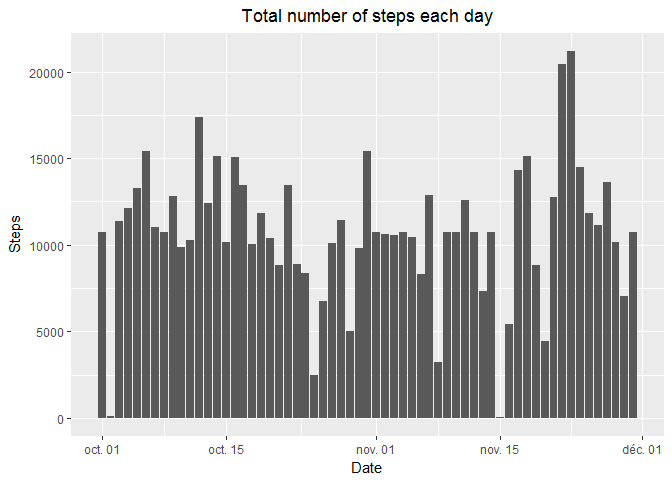
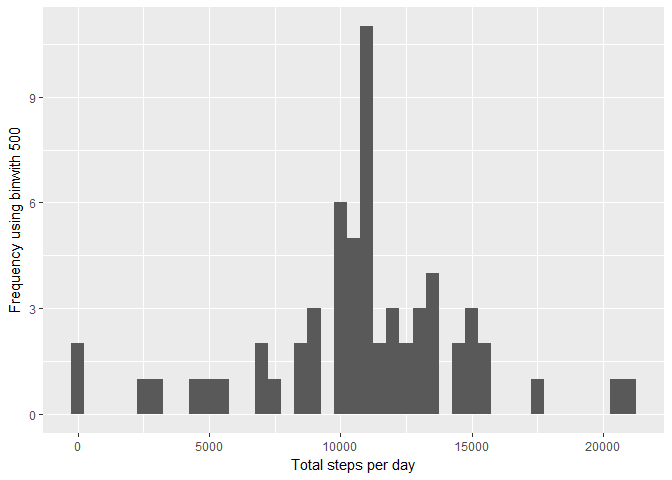
try and error

diff --git a/PA1_template.html b/PA1_template.html
@@ -182,9 +182,8 @@ missingValue&lt;-sum(is.na(data_after_impute$steps))</code></pre>
 <h3>7. Histogram of the total number of steps taken each day after missing values are imputed</h3>
 <pre class="r"><code>hist_data&lt;- data_after_impute
 n_steps_day2&lt;-aggregate(hist_data[,1],by=list(hist_data$date), FUN=sum)
-g&lt;-ggplot(n_steps_day2, aes(x=as.Date(Group.1), y=x)) + geom_bar(stat=&quot;identity&quot;)+labs(title=&quot;Total number of steps each day&quot;,y=&quot;Steps&quot;,x=&quot;Date&quot;)+theme(plot.title = element_text(hjust = 0.5))
-print(g)</code></pre>
[1 lines of base64/hex data omitted]
+qplot(n_steps_day2$x, xlab='Total steps per day', ylab='Frequency using binwith 500', binwidth=500)</code></pre>
[1 lines of base64/hex data omitted]
 </div>
 <div id="panel-plot-comparing-the-average-number-of-steps-taken-per-5-minute-interval-across-weekdays-and-weekends" class="section level3">
 <h3>8. Panel plot comparing the average number of steps taken per 5-minute interval across weekdays and weekends</h3>

diff --git a/PA1_template.md b/PA1_template.md
@@ -106,8 +106,7 @@ Missing values after allocation: 0
 ```r
 hist_data<- data_after_impute
 n_steps_day2<-aggregate(hist_data[,1],by=list(hist_data$date), FUN=sum)
-g<-ggplot(n_steps_day2, aes(x=as.Date(Group.1), y=x)) + geom_bar(stat="identity")+labs(title="Total number of steps each day",y="Steps",x="Date")+theme(plot.title = element_text(hjust = 0.5))
-print(g)
+qplot(n_steps_day2$x, xlab='Total steps per day', ylab='Frequency using binwith 500', binwidth=500)
 ```
 
 ![](PA1_template_files/figure-html/unnamed-chunk-7-1.png)<!-- -->
